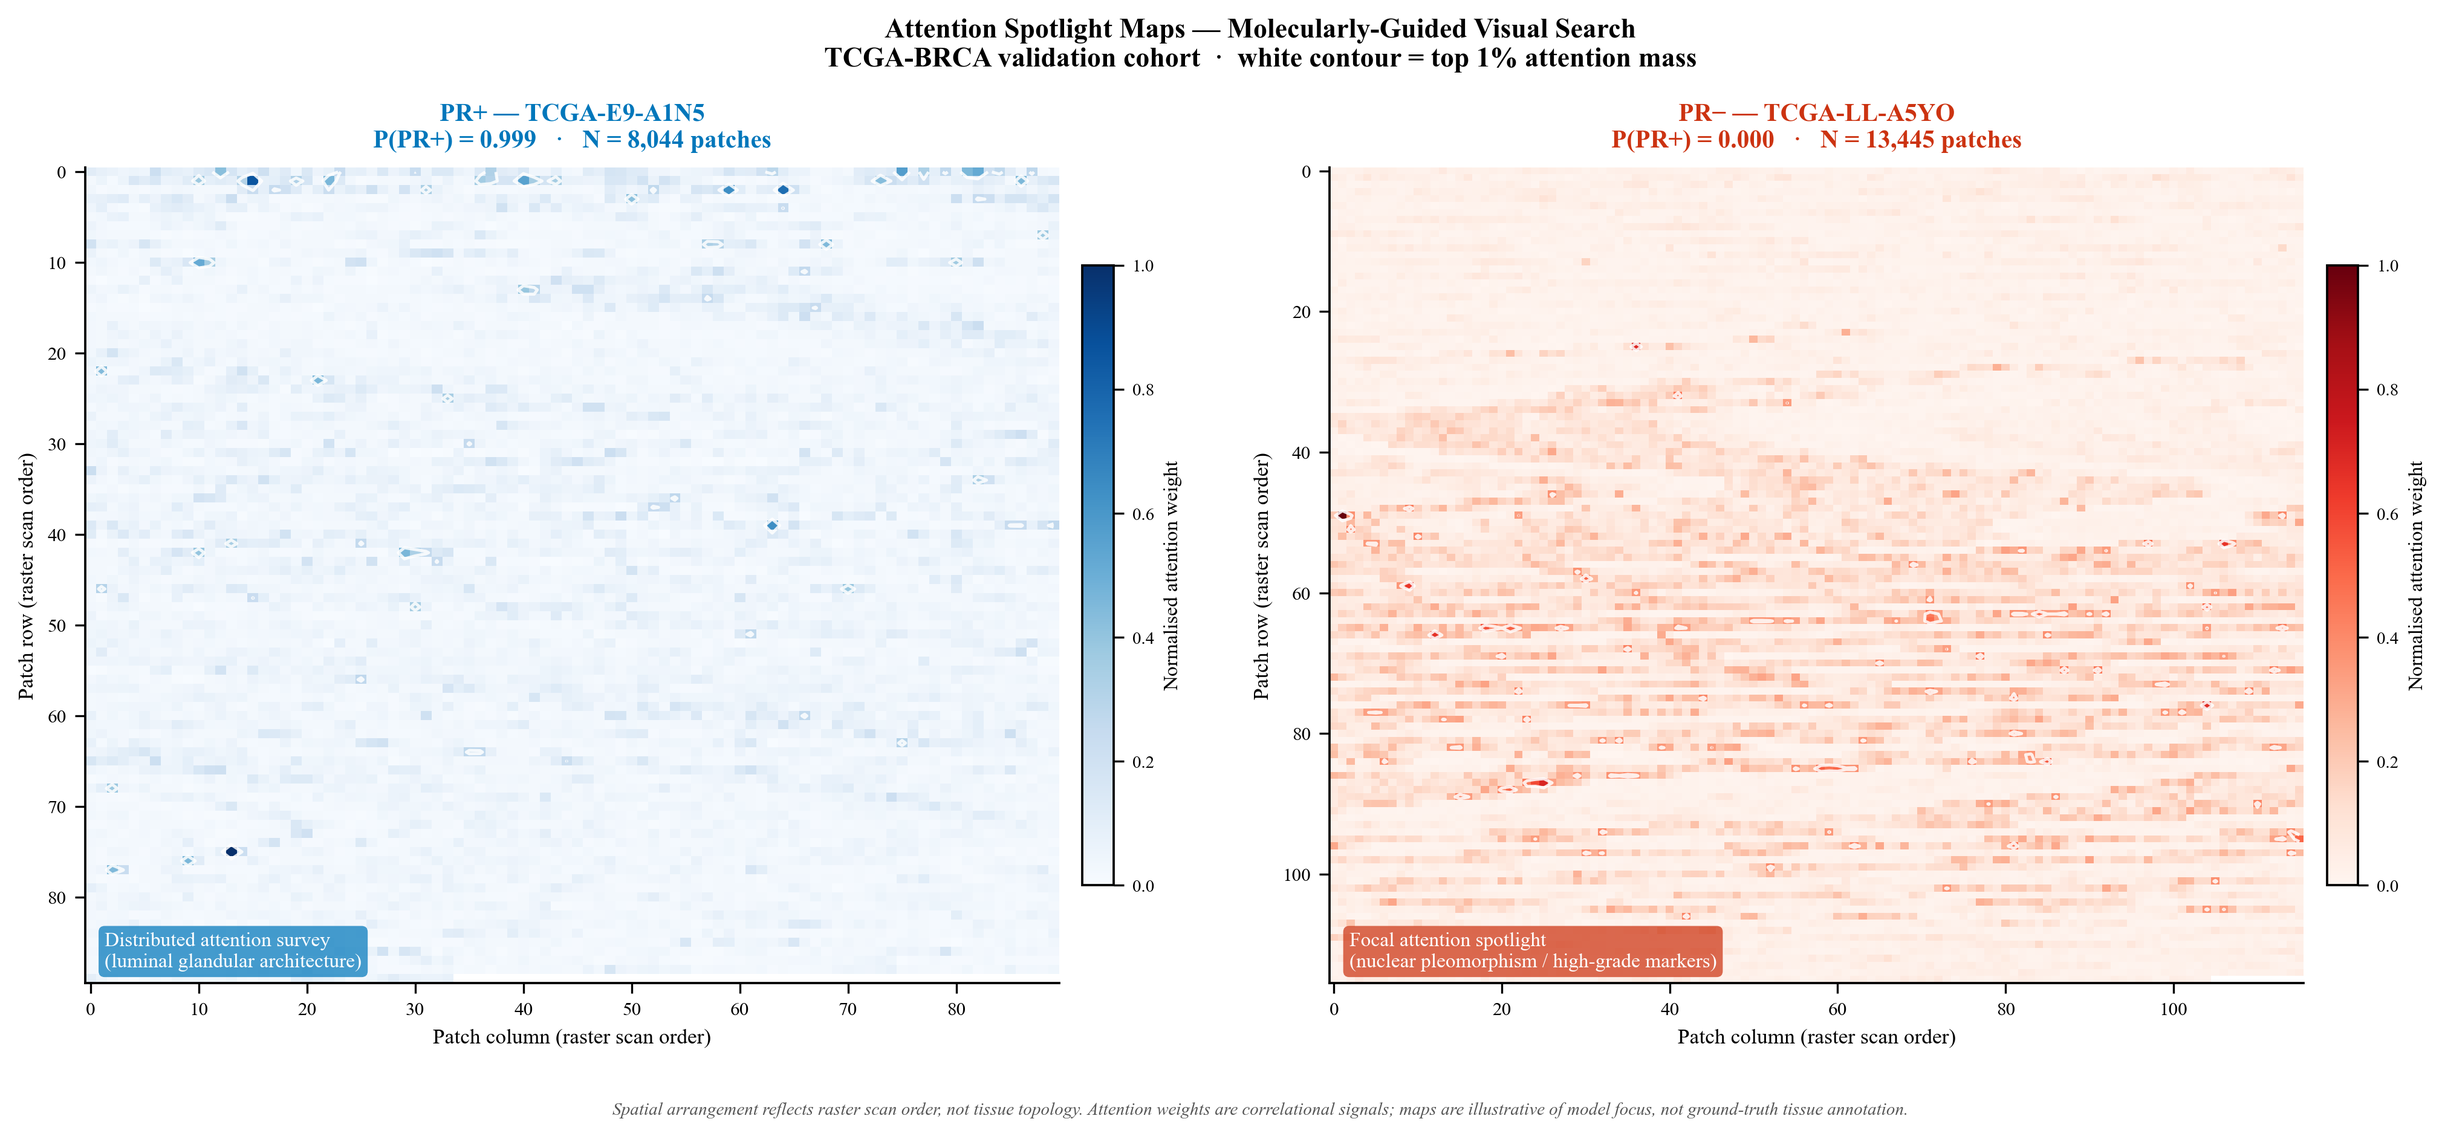
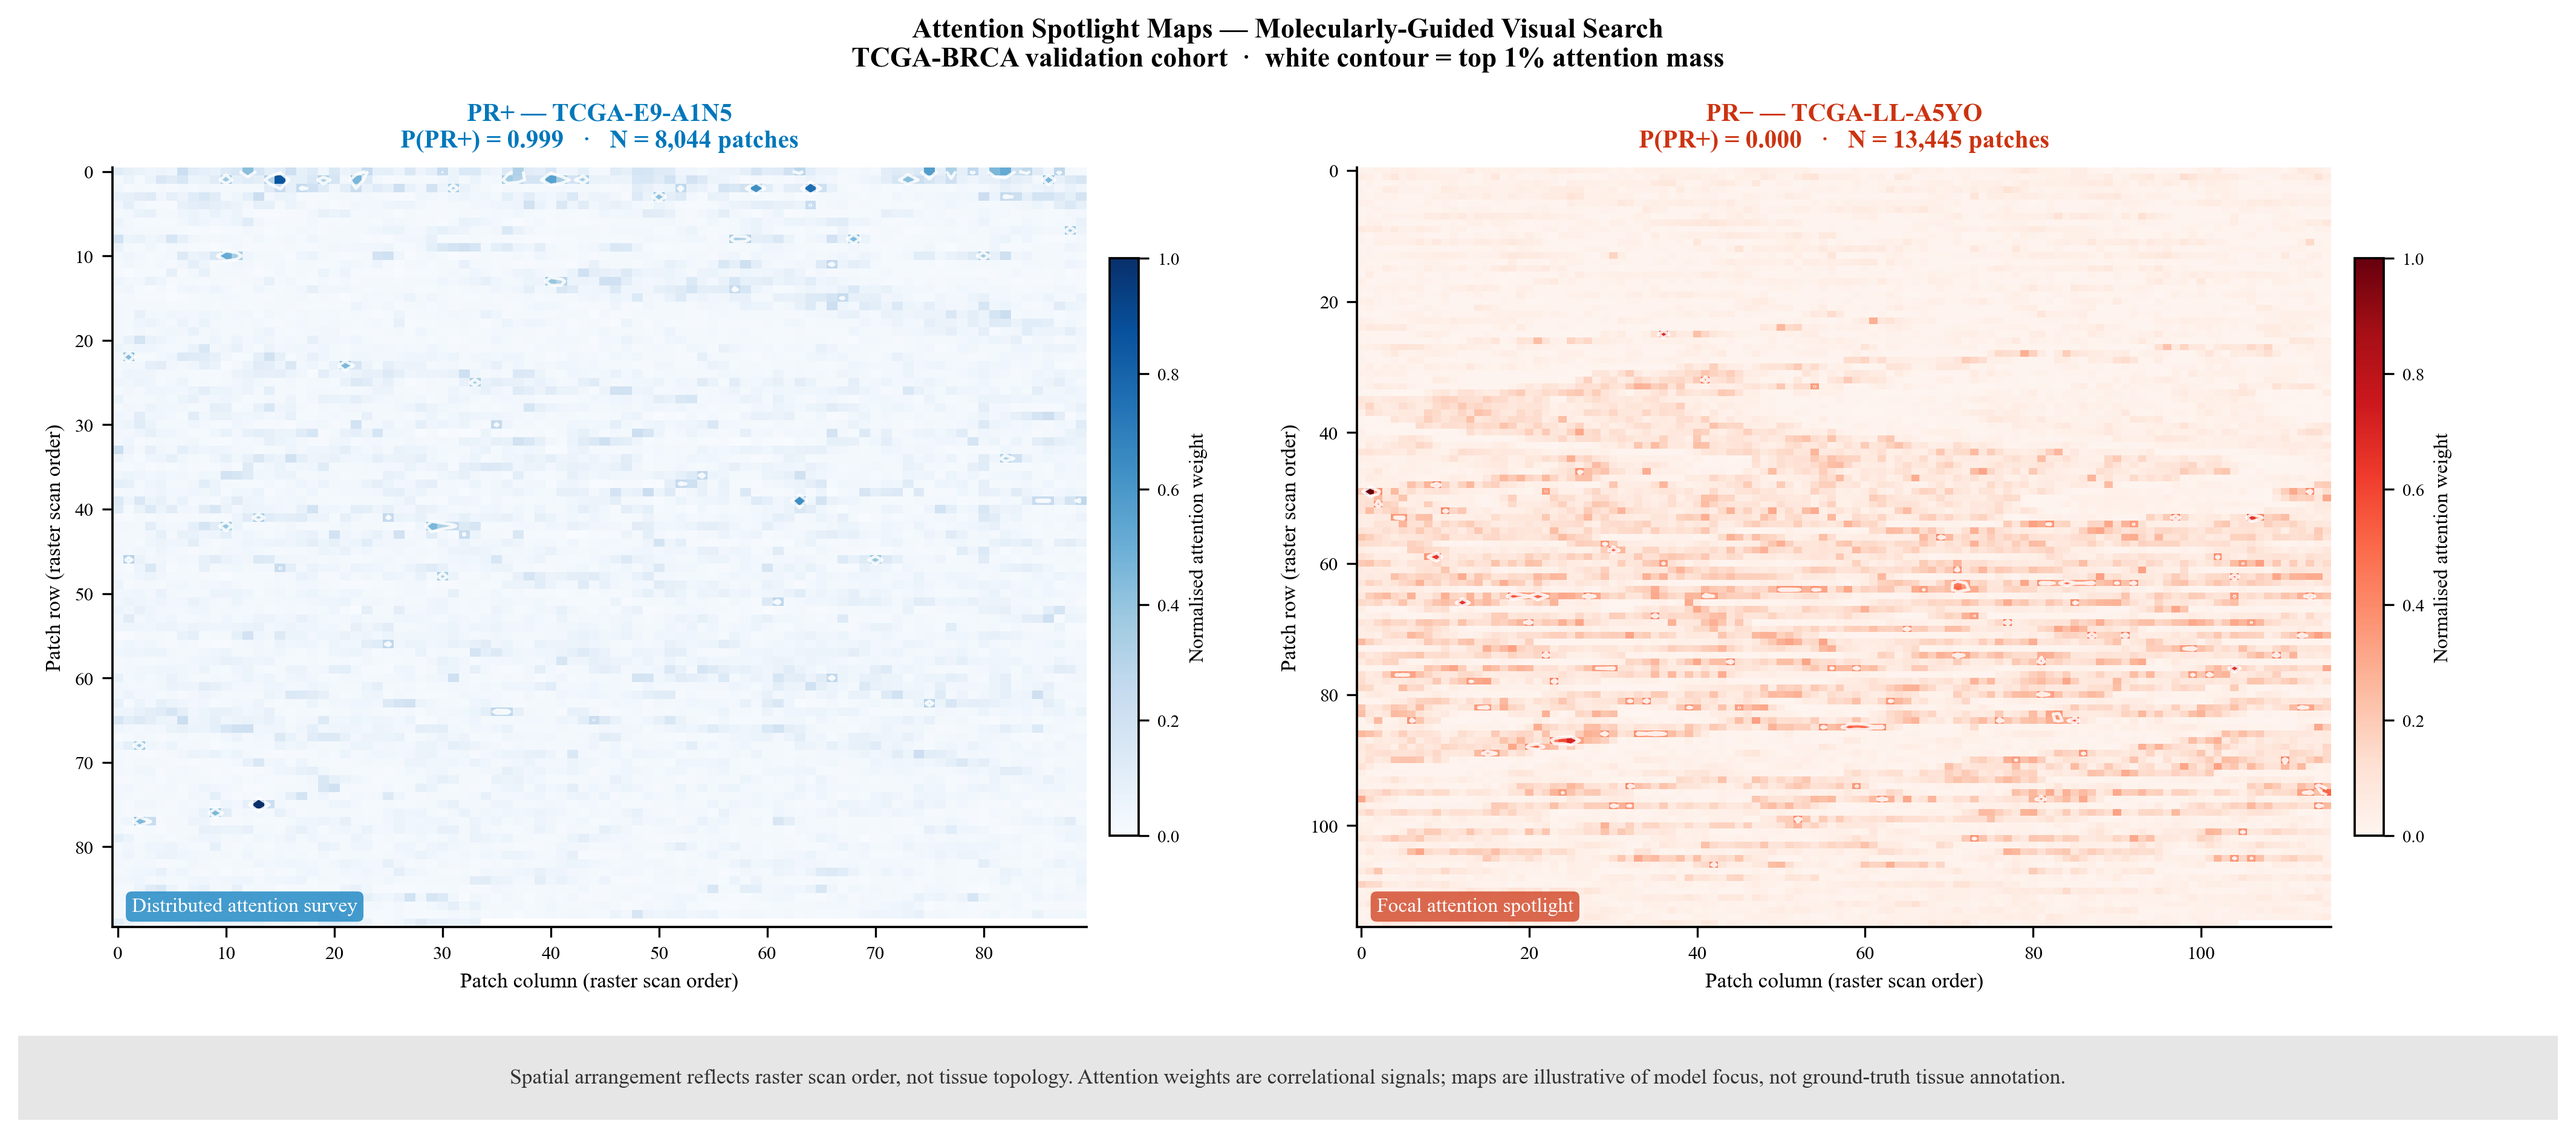
Fix language implying deployed clinical system; correct unverified figure labels
- Replace 'clinical decision-support system' with 'multimodal architecture' in abstract
- Change active-voice 'automatically flag/escalate' claims to hedged, deployment-conditional language
- Rename 'Calibrated Clinical Safety Gate' to 'Cross-Modal Reliability Signal'
- Remove unverified biological claims from attention spotlight map labels and caption
  (nuclear pleomorphism/high-grade markers, luminal glandular architecture were not
  visually confirmed against attended patches)

diff --git a/src/utils/run_validation_analysis.py b/src/utils/run_validation_analysis.py
@@ -40,6 +40,7 @@ import torch
 import matplotlib
 matplotlib.use("Agg")
 import matplotlib.pyplot as plt
+from matplotlib.patches import Rectangle
 from pathlib import Path
 from scipy import stats
 from scipy.special import ndtri
@@ -462,9 +463,9 @@ def plot_spotlight_maps(
 
     panel_cfg = [
         (axes[0], best_pos_i, "PR+", "Blues", C_POS,
-         "Distributed attention survey\n(luminal glandular architecture)"),
+         "Distributed attention survey"),
         (axes[1], best_neg_i, "PR−", "Reds",  C_NEG,
-         "Focal attention spotlight\n(nuclear pleomorphism / high-grade markers)"),
+         "Focal attention spotlight"),
     ]
 
     for ax, idx, label_str, cmap_name, color, subtitle in panel_cfg:
@@ -526,14 +527,18 @@ def plot_spotlight_maps(
         "TCGA-BRCA validation cohort  ·  white contour = top 1% attention mass",
         fontsize=11, fontweight="bold",
     )
-    fig.tight_layout(rect=[0, 0.04, 1, 1])
+    fig.tight_layout(rect=[0, 0.09, 1, 1])
 
+    fig.patches.append(Rectangle(
+        (0, 0), 1, 0.075, transform=fig.transFigure,
+        facecolor="#e6e6e6", edgecolor="none", zorder=0,
+    ))
     fig.text(
-        0.5, 0.005,
+        0.5, 0.0375,
         "Spatial arrangement reflects raster scan order, not tissue topology. "
         "Attention weights are correlational signals; maps are illustrative of "
         "model focus, not ground-truth tissue annotation.",
-        ha="center", fontsize=7, style="italic", color="#555555",
+        ha="center", va="center", fontsize=8.5, color="#333333",
     )
 
     fig.savefig(out_path, dpi=300, bbox_inches="tight")

diff --git a/README.md b/README.md
@@ -36,8 +36,8 @@ cross-attention architecture validated on 951 TCGA-BRCA patients.
   phenotypic separation; entropy analysis suppresses this
   entirely (p = 0.401) due to the slide-size confound.
 - **Cross-Modal Reliability Estimator** (Gated-Fusion v2)
-  produces a per-patient confidence score for automated triage
-  of discordant cases. The gate separates PR+ and PR- patients
+  produces a per-patient confidence score illustrating a potential
+  mechanism for triage of discordant cases. The gate separates PR+ and PR- patients
   across the confidence spectrum: 83.1% of concordant cases
   are PR+ and 67.2% of flagged cases are PR-, with an
   escalation rate of 31.9% on the held-out cohort.
